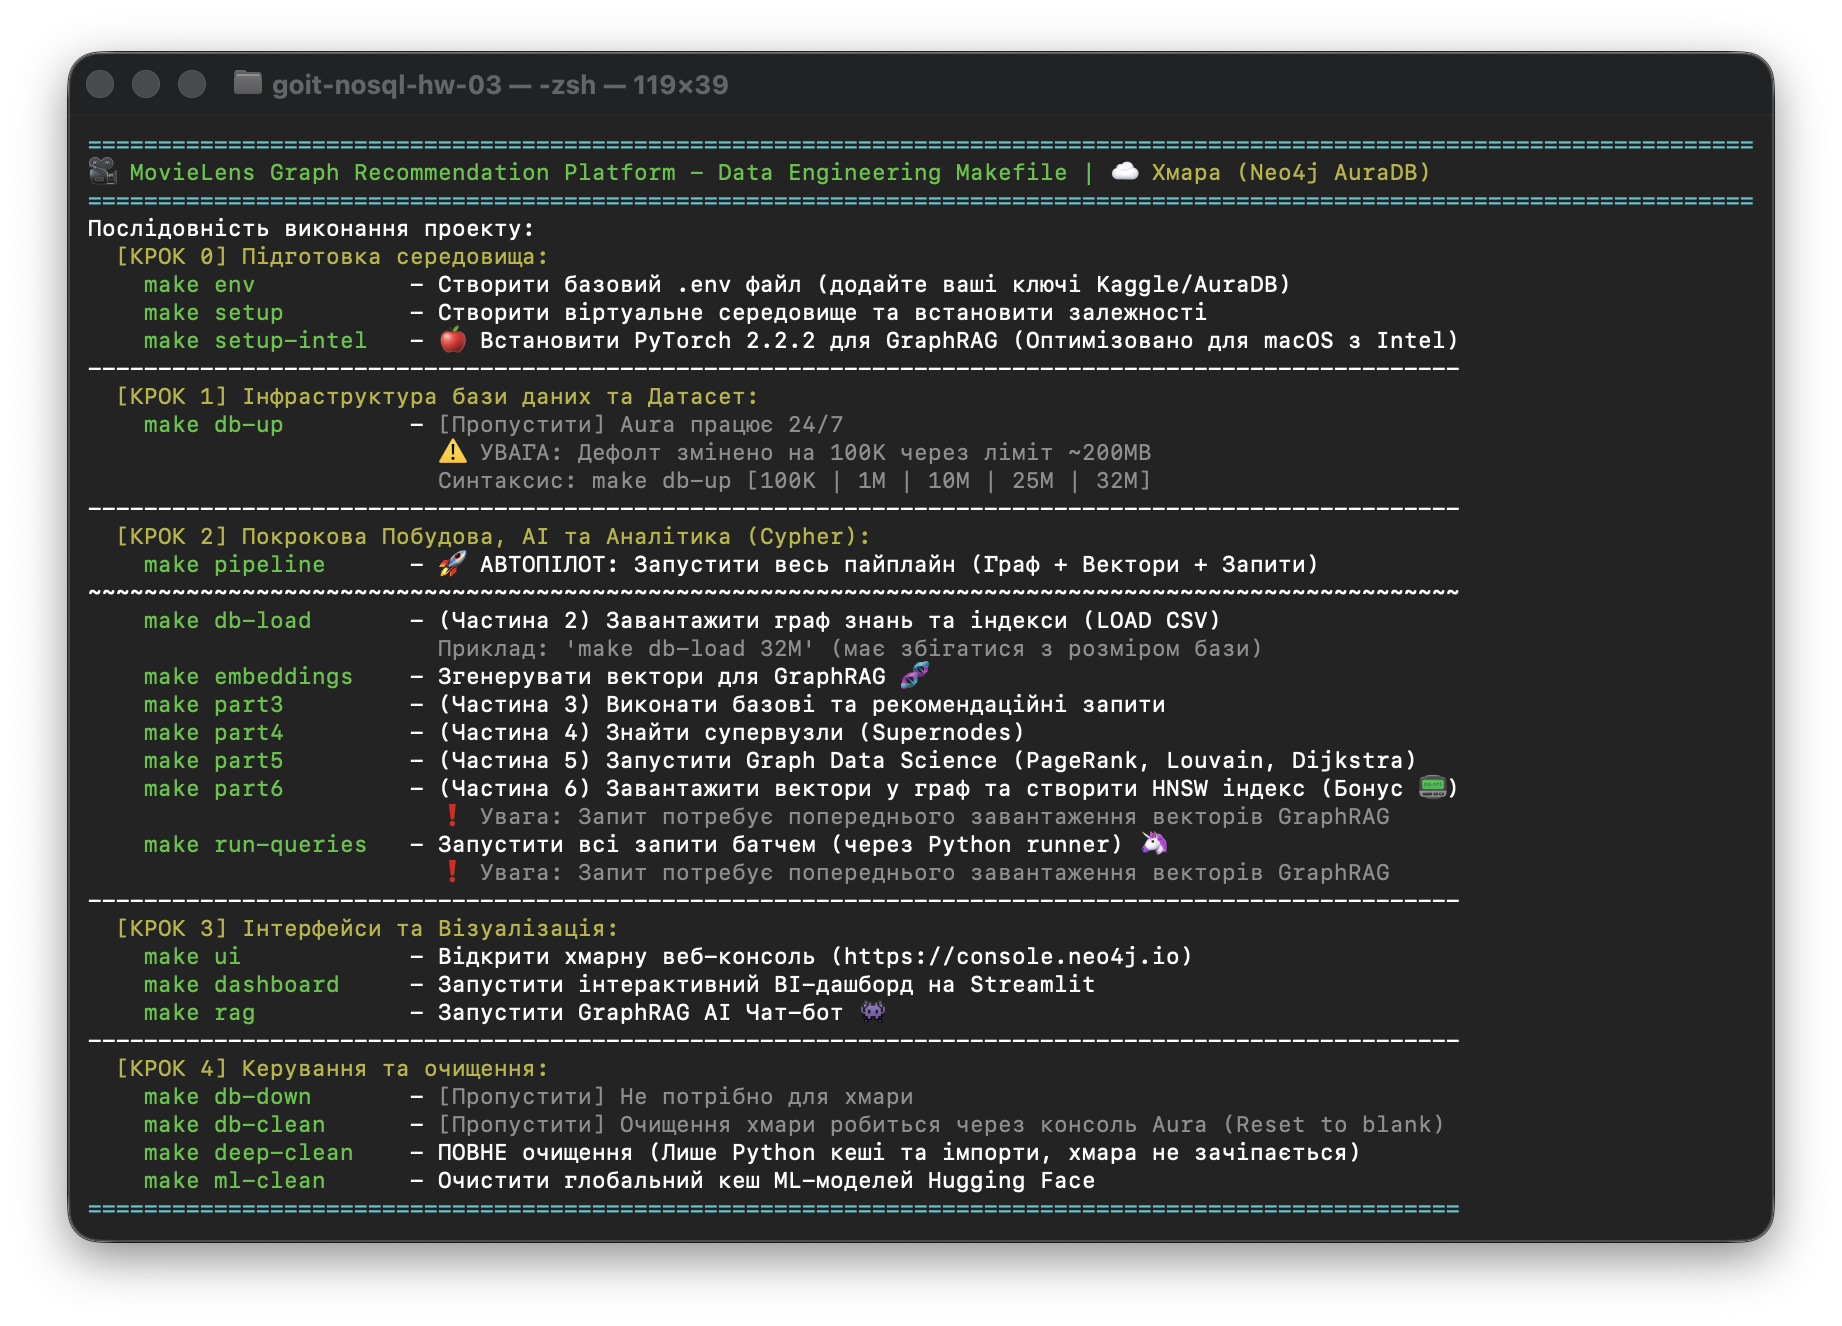
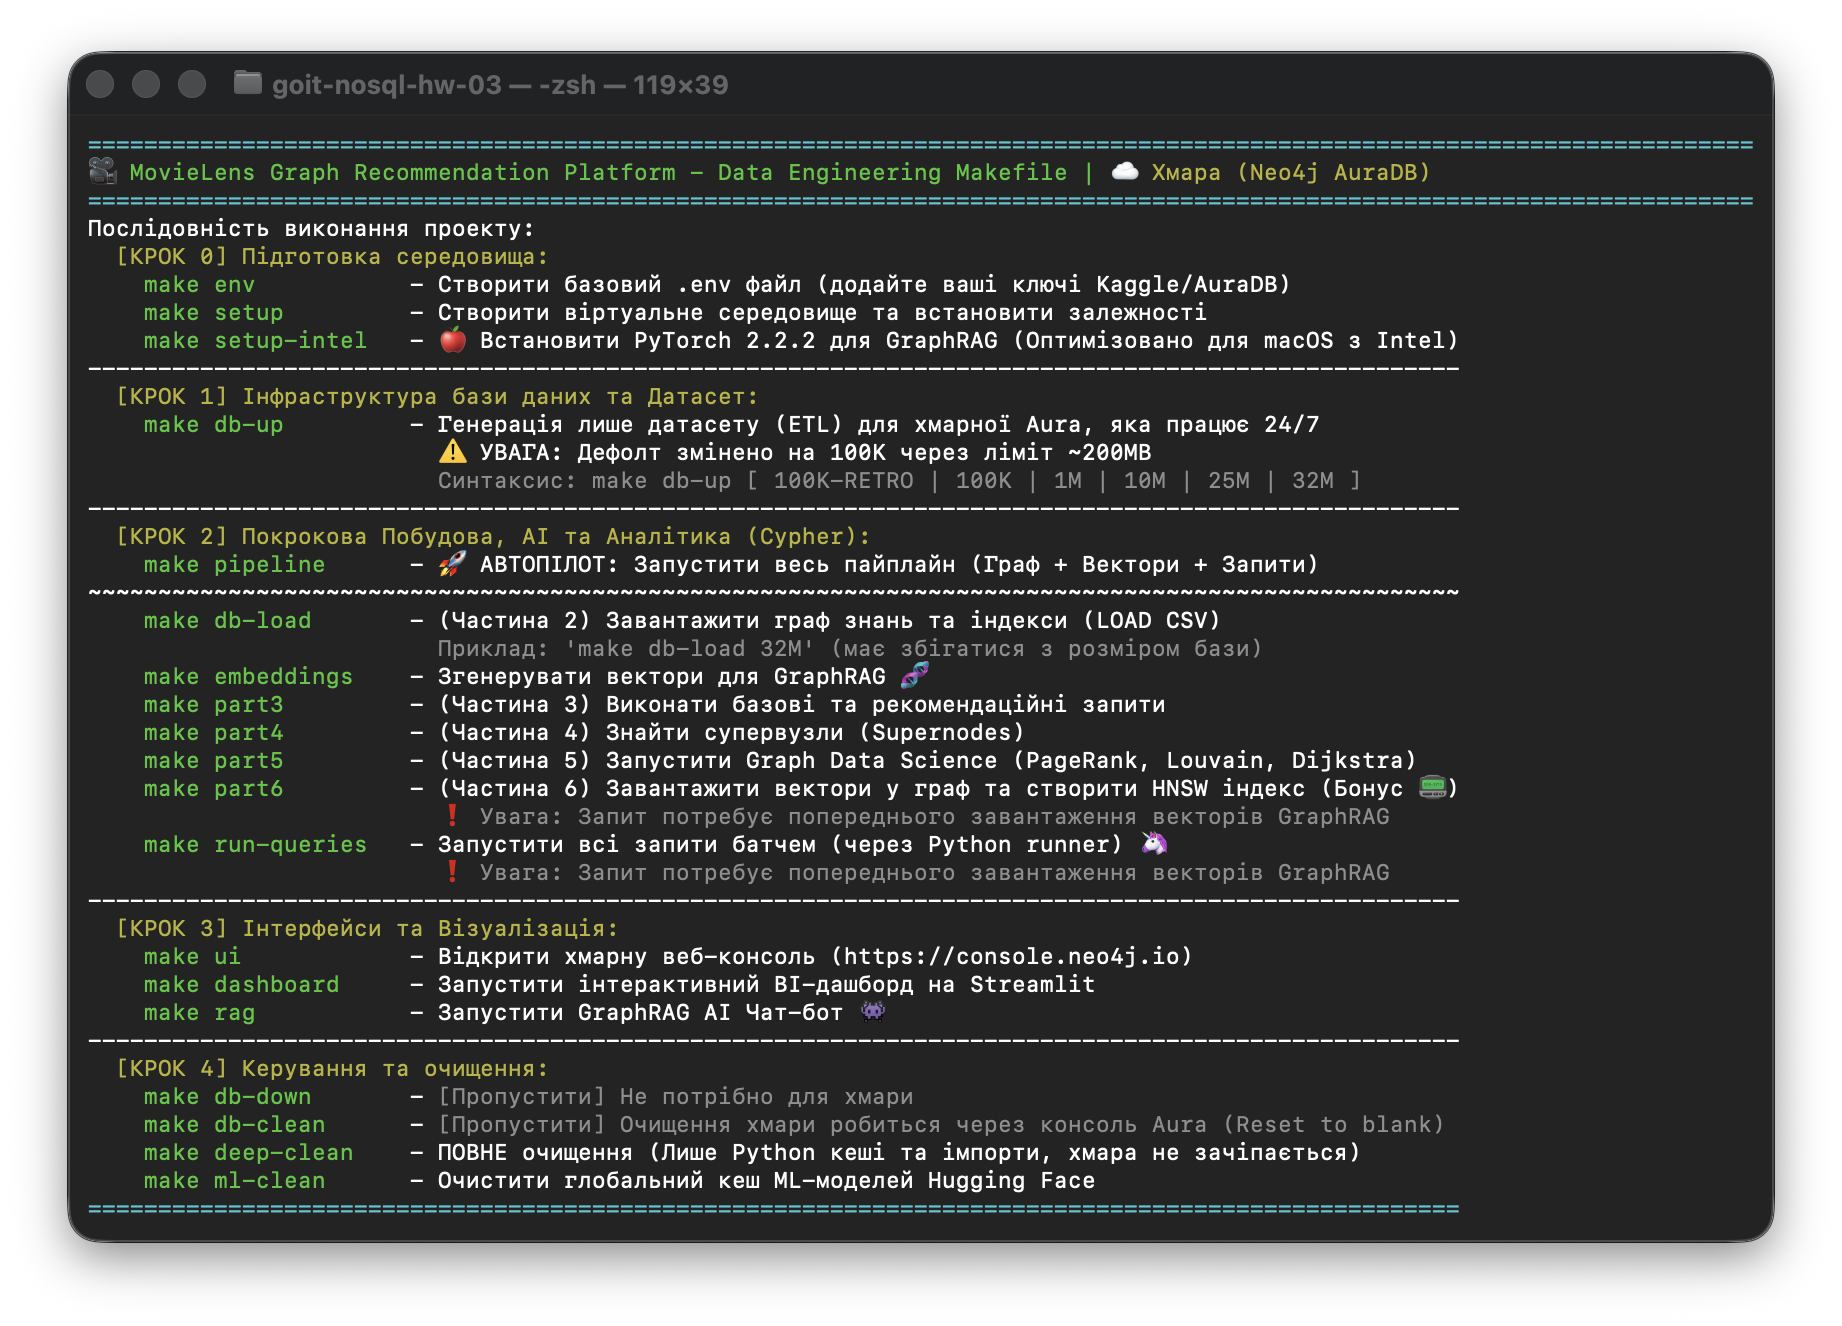
fix Logic for Archive & Engine & DataSets Logic & Aura

Changed region(s): [[0.2476, 0.3092, 0.7117, 0.371], [0.7117, 0.3401, 0.7427, 0.371]]

diff --git a/scripts/convert.py b/scripts/convert.py
@@ -4,6 +4,10 @@ import sys
 from pathlib import Path
 import pandas as pd
 from tqdm import tqdm
+import warnings
+
+# Вимикаємо DtypeWarning та ParserWarning, щоб логіка Fallback працювала тихо і не лякала консоль
+warnings.filterwarnings('ignore', category=pd.errors.ParserWarning)
 
 # Імпортуємо наші суміжні інфраструктурні модулі
 import dataset_config
@@ -23,6 +27,40 @@ def ensure_infrastructure():
     """Атомарно створює цільові директорії платформи."""
     DATA_DIR.mkdir(parents=True, exist_ok=True)
     IMPORT_DIR.mkdir(parents=True, exist_ok=True)
+
+# =========================================================================
+# 🧬 SMART READER: ПАТЕРН GRACEFUL DEGRADATION (DRY)
+# =========================================================================
+def smart_read_csv(file_path, desc_name, **kwargs):
+    """
+    Універсальний DRY-рідер. Автоматично підбирає найшвидший доступний рушій
+    Спроби:
+      1. 'pyarrow' (Найшвидший, але боїться chunksize та екзотичних роздільників)
+      2. 'c'       (Стабільний, підтримує chunksize, але не любить роздільники > 1 символу)
+      3. 'python'  (Повільний, але "з'їсть" будь-який формат)
+    """
+    engines = ["pyarrow", "c", "python"]
+    last_error = None
+
+    for engine in engines:
+        try:
+            attempt_kwargs = kwargs.copy()
+            attempt_kwargs["engine"] = engine
+
+            # Якщо рушій не підтримує комбінацію аргументів (наприклад pyarrow + chunksize),
+            # Pandas миттєво викине Exception саме на цьому етапі:
+            reader = pd.read_csv(file_path, **attempt_kwargs)
+
+            # Якщо код дійшов сюди - рушій сумісний з налаштуваннями!
+            print(f"   ⚡ [{desc_name}] Оптимальний рушій: '{engine}'")
+            return reader
+
+        except Exception as e:
+            last_error = e
+            continue
+
+    # Якщо всі 3 рушії впали (наприклад, файл битий фізично)
+    raise RuntimeError(f"❌ Жоден рушій не зміг прочитати '{desc_name}'. Остання помилка: {last_error}")
 
 # ===================================================
 # 2. ШАР ПЕРЕТВОРЕННЯ ДАНИХ (PANDAS & PYARROW ENGINE)
@@ -46,7 +84,8 @@ def convert_movies(config: dict):
             "Documentary", "Drama", "Fantasy", "Film-Noir", "Horror", "Musical", "Mystery",
             "Romance", "Sci-Fi", "Thriller", "War", "Western"
         ]
-        df = pd.read_csv(raw_file_path, sep=config["sep"], engine="python", header=config["header"], names=retro_columns, encoding=config["encoding"])
+        # Замість хардкоду - делегуємо роботу Smart Reader
+        df = smart_read_csv(raw_file_path, "Movies (Retro)", sep=config["sep"], header=config["header"], names=retro_columns, encoding=config["encoding"])
 
         # Збираємо жанри в один рядок
         genre_cols = retro_columns[5:]
@@ -58,9 +97,8 @@ def convert_movies(config: dict):
         # Відкидаємо зайві 22 колонки, залишаємо тільки потрібні три
         df = df[["movieId", "title", "genres"]]
     else:
-        # Стандартна обробка для сучасних датасетів (1M, 10M, 25M, 32M)
-        engine_type = "python" if config["sep"] == "::" else "pyarrow"
-        df = pd.read_csv(raw_file_path, sep=config["sep"], engine=engine_type, header=config["header"], names=dataset_config.MOVIES_COLUMNS, encoding=config["encoding"])
+        # Стандартна обробка для датасетів з уже готовою колонкою жанрів
+        df = smart_read_csv(raw_file_path, "Movies", sep=config["sep"], header=config["header"], names=dataset_config.MOVIES_COLUMNS, encoding=config["encoding"])
 
     df["title"] = df["title"].astype("string[pyarrow]")
     df["genres"] = df["genres"].astype("string[pyarrow]")
@@ -85,12 +123,11 @@ def convert_users(config: dict):
     if config.get("is_retro"):
         # У 1998 вік і стать були переплутані місцями порівняно з 1M
         retro_user_cols = ["userId", "age", "gender", "occupation", "zipCode"]
-        df = pd.read_csv(raw_file_path, sep=config["sep"], engine="python", header=config["header"], names=retro_user_cols, encoding=config["encoding"])
+        df = smart_read_csv(raw_file_path, "Users (Retro)", sep=config["sep"], header=config["header"], names=retro_user_cols, encoding=config["encoding"])
         # Переставляємо колонки в наш стандартний порядок для бази даних
         df = df[dataset_config.USERS_COLUMNS]
     else:
-        engine_type = "python" if config["sep"] == "::" else "pyarrow"
-        df = pd.read_csv(raw_file_path, sep=config["sep"], engine=engine_type, header=config["header"], names=dataset_config.USERS_COLUMNS, encoding=config["encoding"])
+        df = smart_read_csv(raw_file_path, "Users", sep=config["sep"], header=config["header"], names=dataset_config.USERS_COLUMNS, encoding=config["encoding"])
 
     df["userId"] = pd.to_numeric(df["userId"], downcast="integer")
     df.to_csv(clean_file_path, index=False, encoding="utf-8")
@@ -113,18 +150,17 @@ def convert_ratings(config: dict):
 
     # 👾 РЕТРО-АДАПТЕР: Окремий роздільник для рейтингів
     active_sep = config.get("ratings_sep", config["sep"])
-    engine_type = "python" if active_sep in ["::", "\t"] else "pyarrow"
-
     chunk_size = 1_000_000
     rows_processed = 0
     unique_users = set() # Ініціалізуємо множину для унікальних ID
 
     pd.DataFrame(columns=dataset_config.RATINGS_COLUMNS).to_csv(clean_file_path, index=False, encoding="utf-8")
 
-    chunk_iter = pd.read_csv(
+    # Передаємо генерацію чанків нашому Smart Reader
+    chunk_iter = smart_read_csv(
         raw_file_path,
+        "Ratings (Chunked)",
         sep=active_sep,
-        engine=engine_type,
         header=config["header"],
         names=dataset_config.RATINGS_COLUMNS,
         encoding=config["encoding"],
@@ -132,7 +168,7 @@ def convert_ratings(config: dict):
     )
 
     # Використовуємо target_rows лише для візуалізації прогресу (ETA)
-    with tqdm(total=config["target_rows"], desc="⚙️  Парсинг масиву ratings", unit="рядків", file=sys.stdout) as pbar:
+    with tqdm(total=config["target_rows"], desc="⚙️  Парсинг масиву ratings", unit=" рядків", file=sys.stdout) as pbar:
         for chunk in chunk_iter:
             # Оптимізація пам'яті (Downcasting)
             chunk["userId"] = pd.to_numeric(chunk["userId"], downcast="integer")
@@ -142,7 +178,6 @@ def convert_ratings(config: dict):
 
             # Додаємо унікальні ID з цього чанка в загальну множину
             unique_users.update(chunk["userId"].unique())
-
             chunk.to_csv(clean_file_path, mode="a", header=False, index=False, encoding="utf-8")
 
             rows_processed += len(chunk)
@@ -166,7 +201,6 @@ def convert_ratings(config: dict):
 
         # Гарантуємо правильний порядок колонок
         users_df = users_df[dataset_config.USERS_COLUMNS]
-
         users_df.to_csv(IMPORT_DIR / "users.csv", index=False, encoding="utf-8")
         print(f"✅ Успішно згенеровано users.csv-заглушку для Neo4j!")
 
@@ -174,6 +208,10 @@ def convert_ratings(config: dict):
 # 3. ТОЧКА ВХОДУ (CLI ИНТЕРФЕЙС)
 # ==============================
 if __name__ == "__main__":
+    import logging
+    # Вмикаємо логи для SecureDownloader, щоб нарешті бачити процес завантаження
+    logging.basicConfig(level=logging.INFO, format='%(message)s')
+
     parser = argparse.ArgumentParser(description="MovieLens ETL Платформа (Purist Mode)")
     parser.add_argument(
         "--size",
@@ -193,19 +231,46 @@ if __name__ == "__main__":
     try:
         config = dataset_config.get_config(args.size)
 
-        # Очищення старих даних
-        # Оскільки ми "Purists", ми маємо бути впевнені, що в папці data/ немає залишків іншого датасету
-        old_marker = list(IMPORT_DIR.glob(".dataset_*"))
-        if old_marker and old_marker[0].name != f".dataset_{args.size}":
-            print(f"🧹 Виявлено залишки попереднього датасету ({old_marker[0].name}). Очищення інфраструктури...")
-            for f in DATA_DIR.glob("*"): f.unlink()
-            for f in IMPORT_DIR.glob("*"): f.unlink()
+        # =========================================================================
+        # 🛡️ АБСОЛЮТНИЙ ЗАХИСТ ВІД CACHE POISONING (Розумне очищення)
+        # =========================================================================
+        # Оскільки Makefile чистить import/, ми трекаємо стан безпосередньо в data/
+        state_marker = DATA_DIR / f".state_{args.size}"
+        old_markers = list(DATA_DIR.glob(".state_*"))
+
+        # Якщо ми перемикаємось на інший розмір датасету (маркер не збігається)
+        if not state_marker.exists():
+            old_name = old_markers[0].name.replace('.state_', '') if old_markers else "Відсутній"
+            print(f"🧹 Виявлено зміну датасету ({old_name} ➔ {args.size}).")
+            print("💣 Очищення розпакованих файлів (САМІ АРХІВИ .zip ЗБЕРІГАЮТЬСЯ!)...")
+
+            # 1. Видаляємо старі маркери стану
+            for marker in old_markers:
+                marker.unlink(missing_ok=True)
+
+            # 2. Видаляємо ЛИШЕ розпаковані файли в data/, ігноруючи .zip архіви
+            for ext in ("*.csv", "*.dat", "*.item", "*.data", "*.user"):
+                for f in DATA_DIR.glob(ext):
+                    f.unlink(missing_ok=True)
+
+            # 3. Знищуємо старі результати в папці import/, АЛЕ бережемо .gitkeep
+            for f in IMPORT_DIR.iterdir():
+                if f.is_file() and f.name != ".gitkeep":
+                    f.unlink(missing_ok=True)
+
+            # Фіксуємо новий стан
+            state_marker.touch()
+
+        # 🎯 Динамічне ім'я архіву
+        dynamic_zip_name = f"archive_{args.size}.zip"
 
         downloader = SecureDownloader(
             dataset_path=config["kaggle_path"],
             dataset_url=config["url_fallback"],
             kaggle_direct_url=config["kaggle_direct_url"],
-            data_dir=str(DATA_DIR)
+            data_dir=str(DATA_DIR),
+            zip_name=dynamic_zip_name,
+            expected_size=config.get("expected_zip_bytes") # Передаємо еталонний розмір для перевірки!
         )
 
         downloader.download(target_filename=config["movies_file"])
@@ -219,6 +284,7 @@ if __name__ == "__main__":
         convert_users(config)
         convert_ratings(config)
 
+        # Повертаємо маркер успішності для Makefile
         marker_path = IMPORT_DIR / f".dataset_{args.size}"
         marker_path.touch(exist_ok=True)
 

diff --git a/scripts/etl_core.py b/scripts/etl_core.py
@@ -19,7 +19,7 @@ except ImportError:
 
 
 class SecureDownloader:
-    def __init__(self, dataset_path, dataset_url=None, kaggle_direct_url=None, data_dir="data", zip_name="dataset_archive.zip"):
+    def __init__(self, dataset_path, dataset_url=None, kaggle_direct_url=None, data_dir="data", zip_name="dataset_archive.zip", expected_size=None):
         """
         Ініціалізує гібридний завантажувач (Kaggle API + urllib Fallback)
         dataset_path: шлях для API Kaggle (напр. 'veeralakrishna/movielens-25m-dataset')
@@ -31,20 +31,32 @@ class SecureDownloader:
         self.kaggle_direct_url = kaggle_direct_url
         self.data_dir = data_dir
         self.zip_path = os.path.join(self.data_dir, zip_name)
+        self.expected_size = expected_size  # Еталонний розмір для перевірки
 
         if self.data_dir != ".":
             os.makedirs(self.data_dir, exist_ok=True)
 
     def is_valid_zip(self):
-        """Перевірка цілісності ZIP-архіву (захист від HTML-заглушок та битих файлів)"""
+        """Перевірка цілісності ZIP-архіву (захист від HTML-заглушок, підміни розміру та битих файлів)"""
+        # 1. Перевірка наявності та магічних байтів ZIP-формату
         if not os.path.exists(self.zip_path) or not zipfile.is_zipfile(self.zip_path):
             return False
+
+        # 2. Перевірка фізичного розміру (Анти-жартівник / Spoofing Protection)
+        if self.expected_size and os.path.getsize(self.zip_path) != self.expected_size:
+            logger.warning(f"⚠️ Розмір архіву не збігається з еталоном (Факт: {os.path.getsize(self.zip_path)}, Очікувалось: {self.expected_size})!")
+            return False
+
+        # 3. Перевірка цілісності CRC32 (Глибока перевірка на побиті файли)
         try:
             with zipfile.ZipFile(self.zip_path, 'r') as z:
                 if z.testzip() is not None:
+                    logger.warning("⚠️ Архів пошкоджено (не збігається контрольна сума CRC32).")
                     return False
-        except Exception:
+        except Exception as e:
+            logger.warning(f"⚠️ Помилка читання архіву: {e}")
             return False
+
         return True
 
     def _download_via_api(self):